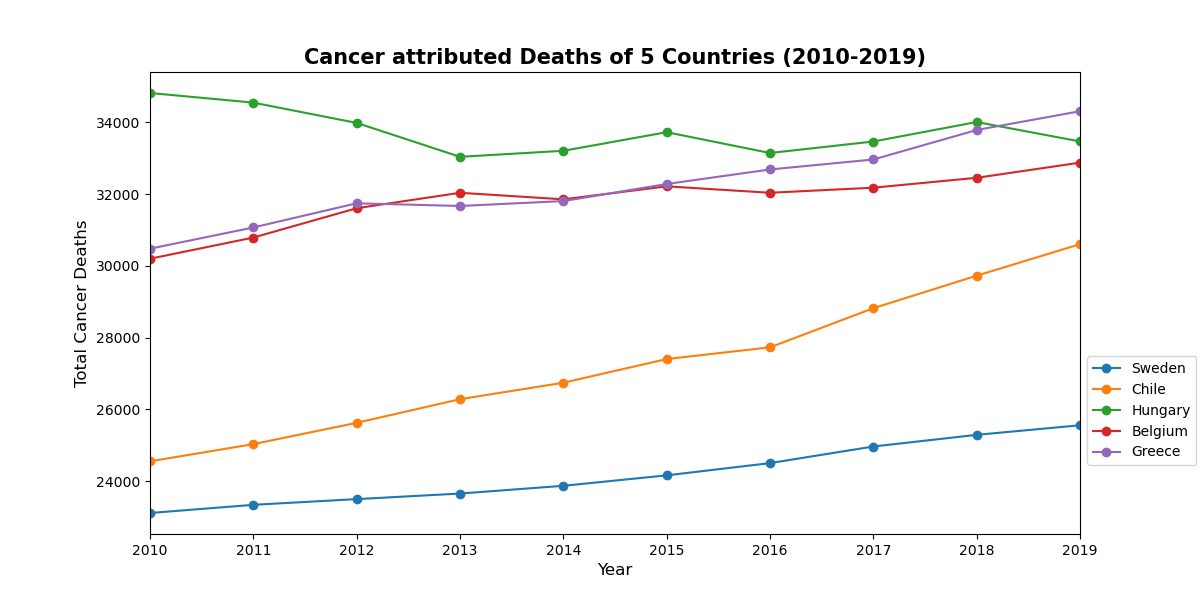
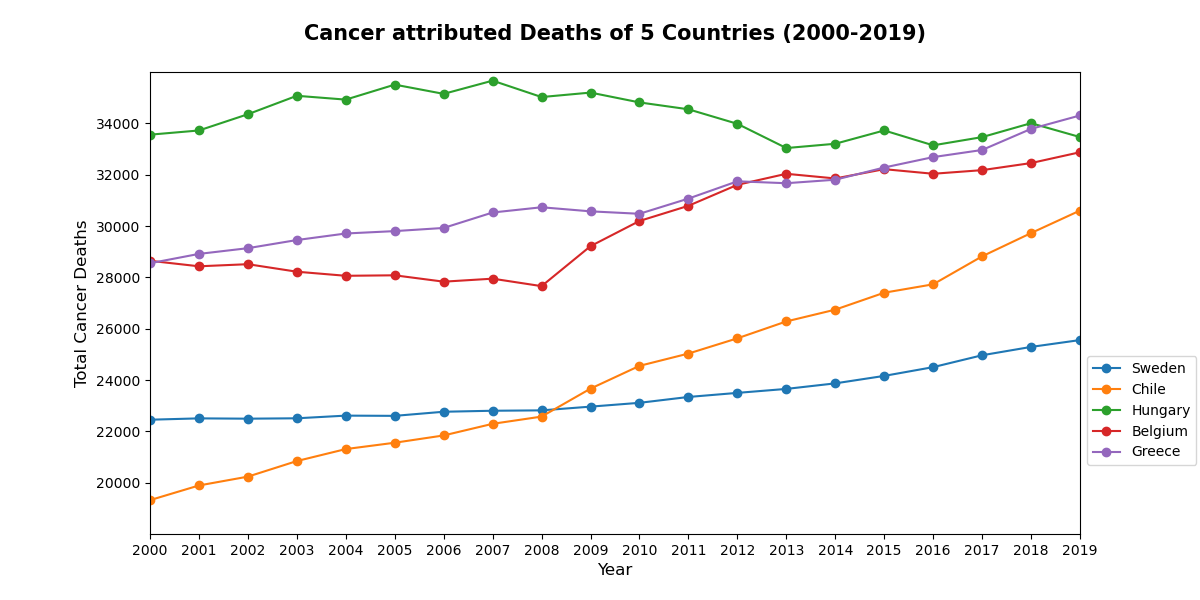
final

diff --git a/Data_Visualization.py b/Data_Visualization.py
@@ -16,7 +16,7 @@ def LinePlot(xaxis):
     """
     for c in country:
         """ The total number of cancer deaths in a certain year in a 
-        selected set of nations, for example, is displayed against 2010 and 
+        selected set of nations, for example, is displayed against 2000 and 
         similarly in each rotation """
         year_total = list(cancer_df[cancer_df['Country'] == c]['Total'])
 
@@ -25,15 +25,15 @@ def LinePlot(xaxis):
         plt.plot(xaxis, year_total, label=c, marker='o')
 
         # set x-axis and y-axis limits
-        plt.xlim([2010, 2019])
-        # plt.ylim([486, 980])
+        plt.xlim([2000, 2019])
+        plt.ylim([18000, 36000])
 
         # set the ticks on both axes
         plt.xticks(year)
-        # plt.yticks(np.arange(450, 1000, 50))
+        plt.yticks(np.arange(20000, 36000, 2000))
 
         # set the title and axes labels
-        plt.title('Cancer attributed Deaths of 5 Countries (2010-2019)',
+        plt.title('Cancer attributed Deaths of 5 Countries (2000-2019)'+'\n',
                   fontsize=15, fontweight='bold')
         plt.xlabel('Year', fontsize=12)
         plt.ylabel('Total Cancer Deaths', fontsize=12)
@@ -120,14 +120,14 @@ cancer.columns = ['Country', 'Code', 'Year', 'Liver', 'Kidney',
                   'Other pharynx', 'Colon and rectum',
                   'Non-melanoma skin', 'Mesothelioma']
 
-# Creating a new Dataframe with cancer record from 2010 to 2019
-cancer2010_19 = cancer[(cancer['Year'] >= 2010) & (cancer['Year'] <= 2019)]
+# Creating a new Dataframe with cancer record from 2000 to 2019
+cancer2000_19 = cancer[(cancer['Year'] >= 2000) & (cancer['Year'] <= 2019)]
 
 # Selecting 5 Countries randomly and forming a list
 country = ['Sweden', 'Chile', 'Hungary', 'Belgium', 'Greece']
 
 # Filtering the dataframe into these 5 countries records
-cancer_df = cancer2010_19[cancer2010_19['Country'].isin(country)]
+cancer_df = cancer2000_19[cancer2000_19['Country'].isin(country)]
 
 # Reseting the index for the filtered dataframe cancer_df
 cancer_df = cancer_df.reset_index()
@@ -139,15 +139,11 @@ This is done for drawing the line plot of the total cancer deaths of
 selected_columns = cancer_df.columns[cancer_df.columns.get_loc('Liver'):]
 cancer_df['Total'] = cancer_df[selected_columns].sum(axis=1)
 
-# list of selected years ie., 2010 to 2019
-year = np.arange(2010, 2020)
+# list of selected years ie., 2000 to 2019
+year = np.arange(2000, 2020)
 
-# Filtering the dataframe cancer_df for the year 2019
+# Filtering the dataframe cancer_df for the year 2019 for bar plot
 cancer19 = cancer_df[cancer_df['Year'] == 2019]
-
-'''Creating a new Dataframe with data of selected countries and all
-    cancer type deaths of a single year(2019) '''
-cancer_19 = cancer[cancer['Year'] == 2019]
 
 ''' Filter the above dataframe to create a dataframe of breast cancer and
      tracheal,bronchus and lung cancer'''
@@ -158,6 +154,10 @@ cancer_bl['b_prop'] = cancer_bl['Breast'] / \
     (cancer_bl['Breast']+cancer_bl['Tracheal, bronchus, and lung'])
 cancer_bl['l_prop'] = cancer_bl['Tracheal, bronchus, and lung']/(
     cancer_bl['Breast']+cancer_bl['Tracheal, bronchus, and lung'])
+
+'''Creating a new Dataframe with data of selected countries and all
+    cancer type deaths of a single year(2019) for the pie chart '''
+cancer_19 = cancer[cancer['Year'] == 2019]
 
 # List of cancer types
 cancer_types = cancer_19.columns[3:]
